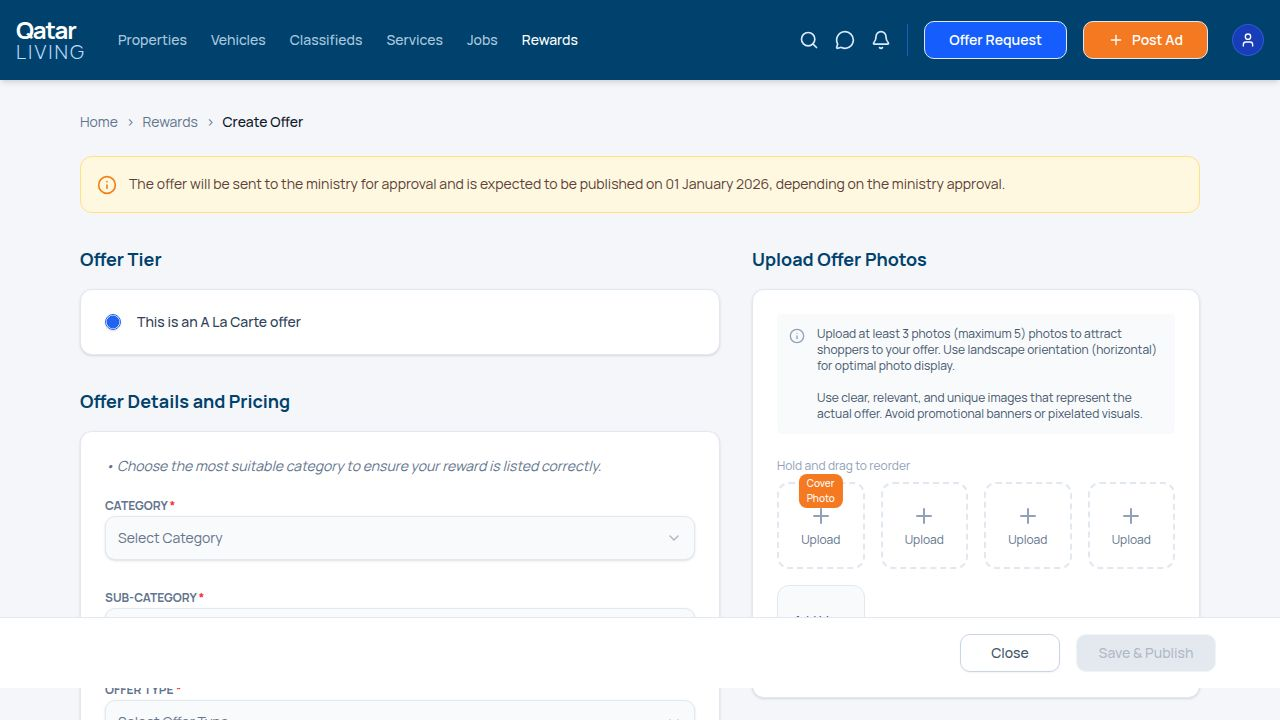
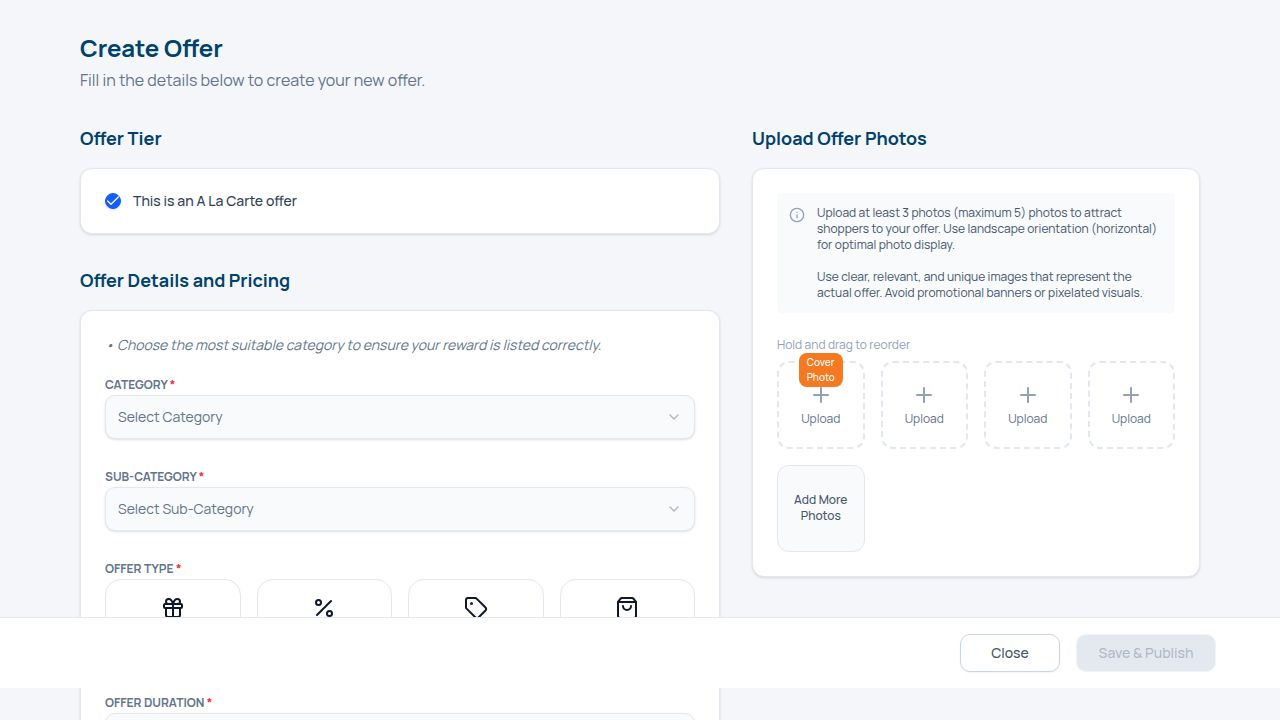
Update offer creation page to remove header, footer, and ministry notice
Replaced header, footer, and ministry approval notice with a new offer creation UI, including dynamic fields and card-based offer type selection.

Replit-Commit-Author: Agent
Replit-Commit-Session-Id: 41c7e29b-400f-445d-9913-100b2bde913e
Replit-Commit-Checkpoint-Type: full_checkpoint
Replit-Commit-Event-Id: f3e79fe7-3fa2-46f1-82f5-7495900d4794
Replit-Commit-Screenshot-Url: https://storage.googleapis.com/screenshot-production-us-central1/b394de88-7ddf-4ef4-a4ce-ed4d9d0f175d/41c7e29b-400f-445d-9913-100b2bde913e/Ks6apd4
Replit-Helium-Checkpoint-Created: true

diff --git a/client/src/pages/CreateOffer.tsx b/client/src/pages/CreateOffer.tsx
@@ -17,7 +17,11 @@ import {
   AlignLeft,
   AlignCenter,
   AlignRight,
-  Plus
+  Plus,
+  Gift,
+  Percent,
+  Tag,
+  ShoppingBag
 } from "lucide-react";
 
 import { Button } from "@/components/ui/button";
@@ -42,8 +46,8 @@ import { RadioGroup, RadioGroupItem } from "@/components/ui/radio-group";
 import { Card, CardContent } from "@/components/ui/card";
 import { Label } from "@/components/ui/label";
 import { Separator } from "@/components/ui/separator";
-import Header from "@/components/Header";
 import { useToast } from "@/hooks/use-toast";
+import { cn } from "@/lib/utils";
 
 // Schema
 const formSchema = z.object({
@@ -143,22 +147,19 @@ export default function CreateOffer() {
     "One voucher per table/group/bill"
   ];
 
+  const offerTypes = [
+    { id: "bogo", label: "Buy 1 Get 1", icon: Gift },
+    { id: "discount", label: "Discount", icon: Percent },
+    { id: "voucher", label: "Voucher", icon: Tag },
+    { id: "bundle", label: "Bundle", icon: ShoppingBag },
+  ];
+
   return (
     <div className="min-h-screen bg-[#F5F6FA] flex flex-col font-sans">
-      <Header />
-
       <main className="flex-1 container mx-auto px-4 py-8 max-w-6xl">
-        {/* Breadcrumb mock */}
-        <div className="text-sm text-slate-500 mb-6 flex items-center gap-2">
-          <span>Home</span> &gt; <span>Rewards</span> &gt; <span className="text-slate-900 font-medium">Create Offer</span>
-        </div>
-
-        {/* Warning Banner */}
-        <div className="bg-[#FFF8E1] border border-[#FFE082] rounded-lg p-4 mb-8 flex items-start gap-3">
-          <Info className="h-5 w-5 text-[#F57F17] mt-0.5 flex-shrink-0" />
-          <p className="text-[#5D4037] text-sm leading-relaxed">
-            The offer will be sent to the ministry for approval and is expected to be published on 01 January 2026, depending on the ministry approval.
-          </p>
+        <div className="mb-8">
+            <h1 className="text-2xl font-bold text-[#00426D]">Create Offer</h1>
+            <p className="text-slate-500 mt-1">Fill in the details below to create your new offer.</p>
         </div>
 
         <Form {...form}>
@@ -251,17 +252,32 @@ export default function CreateOffer() {
                       render={({ field }) => (
                         <FormItem>
                           <FormLabel className="text-xs font-bold text-slate-500 uppercase">Offer Type <span className="text-red-500">*</span></FormLabel>
-                          <Select onValueChange={field.onChange} defaultValue={field.value}>
-                            <FormControl>
-                              <SelectTrigger className="h-11 bg-slate-50">
-                                <SelectValue placeholder="Select Offer Type" />
-                              </SelectTrigger>
-                            </FormControl>
-                            <SelectContent>
-                              <SelectItem value="discount">Discount</SelectItem>
-                              <SelectItem value="bogo">Buy 1 Get 1</SelectItem>
-                            </SelectContent>
-                          </Select>
+                          <FormControl>
+                            <div className="grid grid-cols-2 md:grid-cols-4 gap-4">
+                              {offerTypes.map((type) => {
+                                const Icon = type.icon;
+                                const isSelected = field.value === type.id;
+                                return (
+                                  <div
+                                    key={type.id}
+                                    className={cn(
+                                      "cursor-pointer rounded-xl border p-4 flex flex-col items-center justify-center gap-3 transition-all",
+                                      isSelected 
+                                        ? "border-blue-500 bg-blue-50 text-blue-600 shadow-sm ring-1 ring-blue-500" 
+                                        : "border-slate-200 bg-white text-slate-600 hover:border-slate-300 hover:bg-slate-50"
+                                    )}
+                                    onClick={() => field.onChange(type.id)}
+                                  >
+                                    <Icon className={cn("h-6 w-6", isSelected ? "text-blue-600" : "text-slate-900")} />
+                                    <span className={cn("text-xs font-medium", isSelected ? "text-blue-700" : "text-slate-900")}>
+                                      {type.label}
+                                    </span>
+                                  </div>
+                                );
+                              })}
+                            </div>
+                          </FormControl>
+                          <FormMessage />
                         </FormItem>
                       )}
                     />
@@ -776,7 +792,6 @@ export default function CreateOffer() {
                 <Button type="submit" className="min-w-[140px] bg-slate-300 text-slate-500 hover:bg-slate-400" disabled>
                   Save & Publish
                 </Button>
-                {/* Note: Save & Publish is disabled in screenshot until valid? */}
               </div>
             </div>
             <div className="h-16" /> {/* Spacer for fixed footer */}
@@ -784,26 +799,6 @@ export default function CreateOffer() {
           </form>
         </Form>
       </main>
-
-      <footer className="bg-[#003050] text-white py-12 mt-12">
-        <div className="container mx-auto px-4 text-center">
-           <div className="flex justify-center items-center gap-2 mb-8">
-             <span className="text-2xl font-bold">Qatar</span>
-             <span className="text-xl font-light text-blue-300">LIVING</span>
-           </div>
-           <div className="flex flex-wrap justify-center gap-6 text-sm text-blue-200 mb-8">
-             <a href="#" className="hover:text-white">Properties</a>
-             <a href="#" className="hover:text-white">Vehicles</a>
-             <a href="#" className="hover:text-white">Classifieds</a>
-             <a href="#" className="hover:text-white">Services</a>
-             <a href="#" className="hover:text-white">Jobs</a>
-             <a href="#" className="hover:text-white">Rewards</a>
-           </div>
-           <div className="text-xs text-blue-400/60 border-t border-blue-900/50 pt-8">
-             Copyright © 2025 Qatar Living. All rights reserved.
-           </div>
-        </div>
-      </footer>
     </div>
   );
 }
